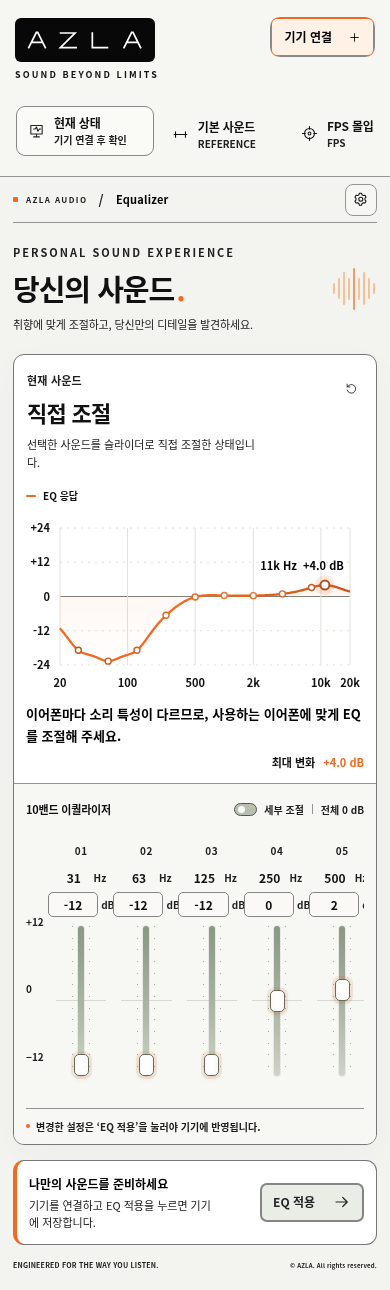
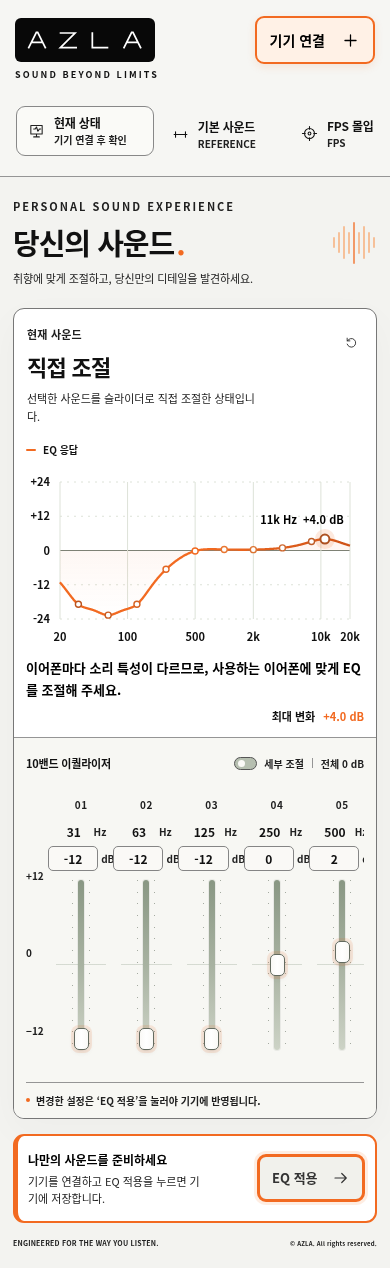
Simplify header and enlarge EQ bands and primary actions

diff --git a/style.css b/style.css
@@ -168,7 +168,7 @@ body{font-weight:500}
 @media(min-width:901px){
  .app-shell{height:100dvh;min-height:0}
  .sidebar{height:100dvh}
- .main-content{display:flex;flex-direction:column;height:100dvh;min-height:0;padding-bottom:12px;--desktop-slider-height:clamp(72px,calc(30dvh - 180px),137px)}
+ .main-content{display:flex;flex-direction:column;height:100dvh;min-height:0;padding-bottom:12px;--desktop-slider-height:clamp(104px,calc(35dvh - 180px),180px)}
  .topbar,.page-heading,.apply-bar,.bottom-caption{flex-shrink:0}
  .topbar{height:44px}
  .page-heading{padding:14px 0}
@@ -195,4 +195,31 @@ body{font-weight:500}
  .controls-section{padding-top:10px;padding-bottom:8px}
  .band-column{padding-top:3px;padding-bottom:3px}
  .chart-section{min-height:174px}
+}
+
+/* Prominent device and apply actions, with the freed header space used by bands. */
+.device-card{padding:16px 12px 13px;background:#FFFFFF;border:2px solid var(--accent);box-shadow:0 0 0 3px #F9A66C33}
+.device-card-top{gap:8px}
+.device-copy strong{font-size:12px}.device-copy>span{font-size:11px}
+.connect-button{min-height:52px;padding:12px;font-size:15px;font-weight:750;border:2px solid var(--accent);border-radius:9px;background:#FFF1E6;color:#000000;box-shadow:0 3px 8px #F26A2120}
+.connect-button .icon{width:19px;height:19px}
+.connect-button:hover:not(:disabled){background:#F9A66C;border-color:#CE5216}
+.connect-button:focus-visible,.apply-button:focus-visible{outline:3px solid #111111;outline-offset:4px}
+.apply-bar{border:2px solid var(--accent);border-left-width:5px}
+.apply-button{min-width:180px;height:52px;padding:0 19px;border:3px solid #CE5216;border-radius:9px;font-size:16px;color:#000000;box-shadow:0 0 0 3px #F9A66C55,0 4px 12px #F26A2124}
+.apply-button:not(:disabled){background:var(--accent);box-shadow:0 0 0 3px #F9A66C55,0 4px 12px #F26A2133}
+.apply-button:hover:not(:disabled){background:#F9A66C;border-color:#CE5216}
+.apply-button:disabled{background:#F1F1EC;border:3px solid var(--accent);color:#333333;opacity:1;box-shadow:0 0 0 3px #F9A66C33}
+@media(min-width:901px){.sidebar{padding-bottom:22px}.page-heading{padding-top:20px}}
+@media(max-width:900px){
+ .device-card{top:14px;right:20px;padding:0;border:0;box-shadow:none;background:transparent}
+ .connect-button{min-height:48px;padding:10px 13px;font-size:14px}
+ .apply-button{min-width:130px;height:48px;font-size:14px}
+ .slider-shell,.gain-slider,.band-scale{height:170px}
+}
+@media(max-width:520px){
+ .device-card{right:15px;top:16px}
+ .apply-bar{padding:13px 10px;gap:8px}
+ .apply-button{min-width:108px;padding:0 12px;font-size:13px;gap:10px}
+ .apply-copy p{max-width:180px}
 }

diff --git a/index.html b/index.html
@@ -34,11 +34,10 @@
         <div class="device-card-top"><span class="device-icon"><svg class="icon"><use href="#icon-usb"/></svg></span><span class="device-copy"><strong id="deviceName">AZLA USB DAC</strong><span id="connectionLabel"><i class="status-dot"></i>연결 대기</span></span></div>
         <button id="connectBtn" class="connect-button" type="button"><span>기기 연결</span><svg class="icon"><use href="#icon-plus"/></svg></button>
       </section>
-      <div class="sidebar-footer"><span>AZLA EQUALIZER</span><span>2.0</span></div>
     </aside>
 
     <main class="main-content">
-      <header class="topbar"><div class="breadcrumb"><span class="breadcrumb-square"></span>AZLA AUDIO<span class="breadcrumb-divider">/</span><span>Equalizer</span></div><div class="topbar-right"><span class="topbar-caption">DESIGNED FOR YOUR SOUND</span><button id="settingsBtn" class="icon-button" type="button" aria-label="설정 및 측정 도구" title="설정 및 측정 도구"><svg class="icon"><use href="#icon-settings"/></svg></button></div></header>
+
 
       <section class="page-heading"><div><div class="eyebrow">PERSONAL SOUND EXPERIENCE</div><h1>당신의 사운드<span class="heading-dot">.</span></h1><p>취향에 맞게 조절하고, 당신만의 디테일을 발견하세요.</p></div><div class="heading-decoration" aria-hidden="true"><span></span><span></span><span></span><span></span><span></span><span></span><span></span><span></span><span></span></div></section>
 

diff --git a/app.js b/app.js
@@ -350,7 +350,6 @@ $('advancedToggle').checked = state.advanced;
 $('advancedToggle').addEventListener('change', event => { state.advanced = event.target.checked; $('bandControls').classList.toggle('advanced-visible', state.advanced); saveLocal(); scheduleDraw(); });
 $('resetBtn').addEventListener('click', () => { state.eq = cloneEq(state.baseEq); state.selected = state.baseSelected; state.error = null; refresh(true); saveLocal(); });
 $('flatBtn').addEventListener('click', () => { const flat = PRESETS.find(profile => profile.id === 'flat').eq; state.eq = cloneEq(flat); state.baseEq = cloneEq(flat); state.selected = 'flat'; state.baseSelected = 'flat'; state.error = null; refresh(true); saveLocal(); toast('기본 사운드 기준값으로 초기화했습니다.'); });
-$('settingsBtn').addEventListener('click', () => { $('settingsDialog').showModal(); renderComparison(); });
 $('closeSettingsBtn').addEventListener('click', () => $('settingsDialog').close());
 $('exportLogBtn').addEventListener('click', () => download('AZLA-Diagnostics.json', { ...controller.diagnostics(), discoveredDevice, preview: state.eq, model: state.model.source, presetReference: PRESET_REFERENCE }));
 $('rewOffInput').addEventListener('change', e => loadMeasurement('off', e.target.files[0]));

diff --git a/tests/browser_smoke.py b/tests/browser_smoke.py
@@ -47,6 +47,7 @@ with sync_playwright() as p:
     page.goto(BASE)
     page.wait_for_selector('.band-column')
     assert page.locator('.band-column').count() == 10
+    assert page.locator('.topbar, #settingsBtn, .sidebar-footer').count() == 0
     assert page.locator('[data-preset]').count() == 7
     assert page.locator('[data-preset] .preset-name').all_text_contents() == ['기본 사운드','FPS 몰입','FPS 선명','FPS 발소리','음악 보컬','음악 밸런스','영화']
     assert page.locator('.band-filter select').first.locator('option[value="3"]').inner_text() == 'HIGH SHELF'
@@ -83,7 +84,7 @@ with sync_playwright() as p:
     assert page.locator('#advancedToggle').is_checked()
     assert all(v == '0' for v in page.locator('.band-gain input').evaluate_all('(els)=>els.map(x=>x.value)'))
     assert all(v == '0.75' for v in page.locator('.band-q input').evaluate_all('(els)=>els.map(x=>x.value)'))
-    page.locator('#settingsBtn').click()
+    page.evaluate("document.querySelector('#settingsDialog').showModal()")
     assert 'SDK' in page.locator('#sdkStatus').inner_text()
     off = '\n'.join(f'{f} 100' for f in [20,50,100,200,500,1000,2000,5000,10000,20000])
     on = '\n'.join(f'{f} 102' for f in [20,50,100,200,500,1000,2000,5000,10000,20000])
@@ -137,7 +138,7 @@ with sync_playwright() as p:
     page = context.new_page()
     page.on('pageerror', lambda error: errors.append(str(error)))
     page.goto(BASE); page.wait_for_selector('.band-column')
-    page.locator('#settingsBtn').click()
+    page.evaluate("document.querySelector('#settingsDialog').showModal()")
     page.locator('#inspectDeviceBtn').click()
     page.wait_for_function("document.querySelector('#discoveredDevice').textContent.includes('0x3302')")
     assert page.evaluate('window.__writes.length') == 0

diff --git a/README.md b/README.md
@@ -2,7 +2,7 @@
 
 AZLA USB DAC를 위한 화이트 패널과 선명한 오렌지 강조를 적용한 10밴드 EQ 프로그램입니다. 기존 프로그램에서 쓰던 **제조사 원본 SDK를 포함**하며, **EQ 적용** 버튼으로 10밴드와 RAM 반영 후 Flash 저장 명령을 보냅니다.
 
-![AZLA Equalizer 화면](docs/screenshots/AZLA-Generic-Modes-1920.png)
+![AZLA Equalizer 화면](docs/screenshots/AZLA-Apply-Visible-1920.png)
 
 웜 화이트는 사이드바와 바깥 배경에 한정하고, 그래프·조절 패널은 흰색과 밝은 중성색으로 구분했습니다. `#F26A21`를 주요 버튼·기기 연결·활성 슬라이더·선택 테두리·EQ 곡선에 적용하고, `#F9A66C`와 `#FFF1E6`는 보조 강조에 사용합니다. 주요 제목·모드명·EQ 수치·설명 글자를 키우고 검정색으로 강조했습니다. 주요 패널·버튼·입력창·선택 밴드의 외곽선도 더 진하게 구분했습니다. 첨부된 AZLA 로고 형태는 선명하게 표시되도록 인라인 SVG로 재구성했으며, EQ·장치 연결·저장 기능은 기존과 동일합니다.
 
@@ -30,7 +30,7 @@ Windows 단독 실행본은 [Releases](https://github.com/tjdrua1123-art/AZLA/re
 
 현재 연결 설정은 기존 프로그램과 같은 제조사 VID 검색 방식입니다. PID를 직접 입력할 필요 없이 본인의 AZLA DAC를 선택합니다. 출력 Report 75를 확인하며, 슬라이더·모드 변경만으로 기기에 쓰지 않습니다.
 
-사용자 사운드 저장·가져오기·내보내기는 제거했습니다. 수동 조절값은 현재 실행 중에만 유지되고 다시 실행하면 기본 사운드으로 시작합니다. 새 버전을 처음 실행할 때 v1~v4의 기존 사용자 저장 키를 삭제하며, 설정의 **진단 기록 저장**은 장치 문제 확인을 위해 유지합니다.
+사용자 사운드 저장·가져오기·내보내기는 제거했습니다. 수동 조절값은 현재 실행 중에만 유지되고 다시 실행하면 기본 사운드로 시작합니다. 새 버전을 처음 실행할 때 v1~v4의 기존 사용자 저장 키를 삭제하며, 연결 오류 시 표시되는 진단 창의 **진단 기록 저장**은 장치 문제 확인을 위해 유지합니다.
 
 **현재 상태**는 연결된 기기에서 실제 EQ Tag ID를 읽습니다. 제조사 SDK에는 Flash의 10개 밴드를 다시 읽는 API가 없으므로, 밴드 값은 이 프로그램이 해당 장치에 마지막으로 Flash 저장 명령과 함께 보낸 기록을 Tag와 대조해 표시합니다. 기록이 없는 기본 모드는 Tag에 해당하는 기준값을 표시하고, 알 수 없는 Tag는 상세 값을 표시하지 않습니다.
 
